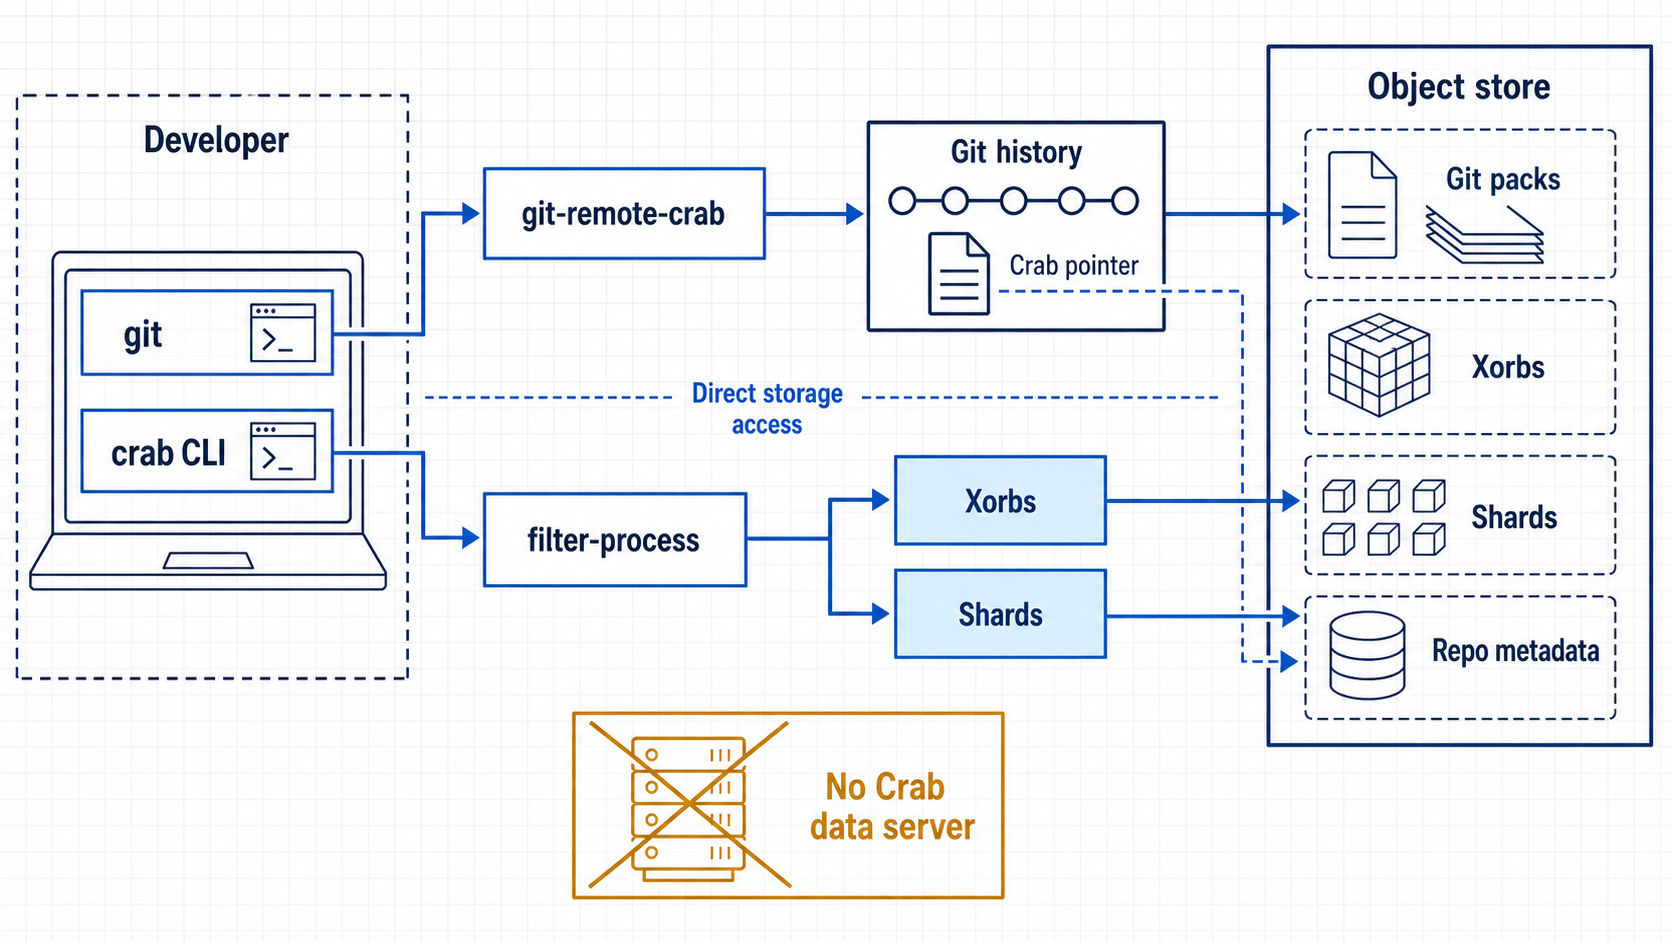
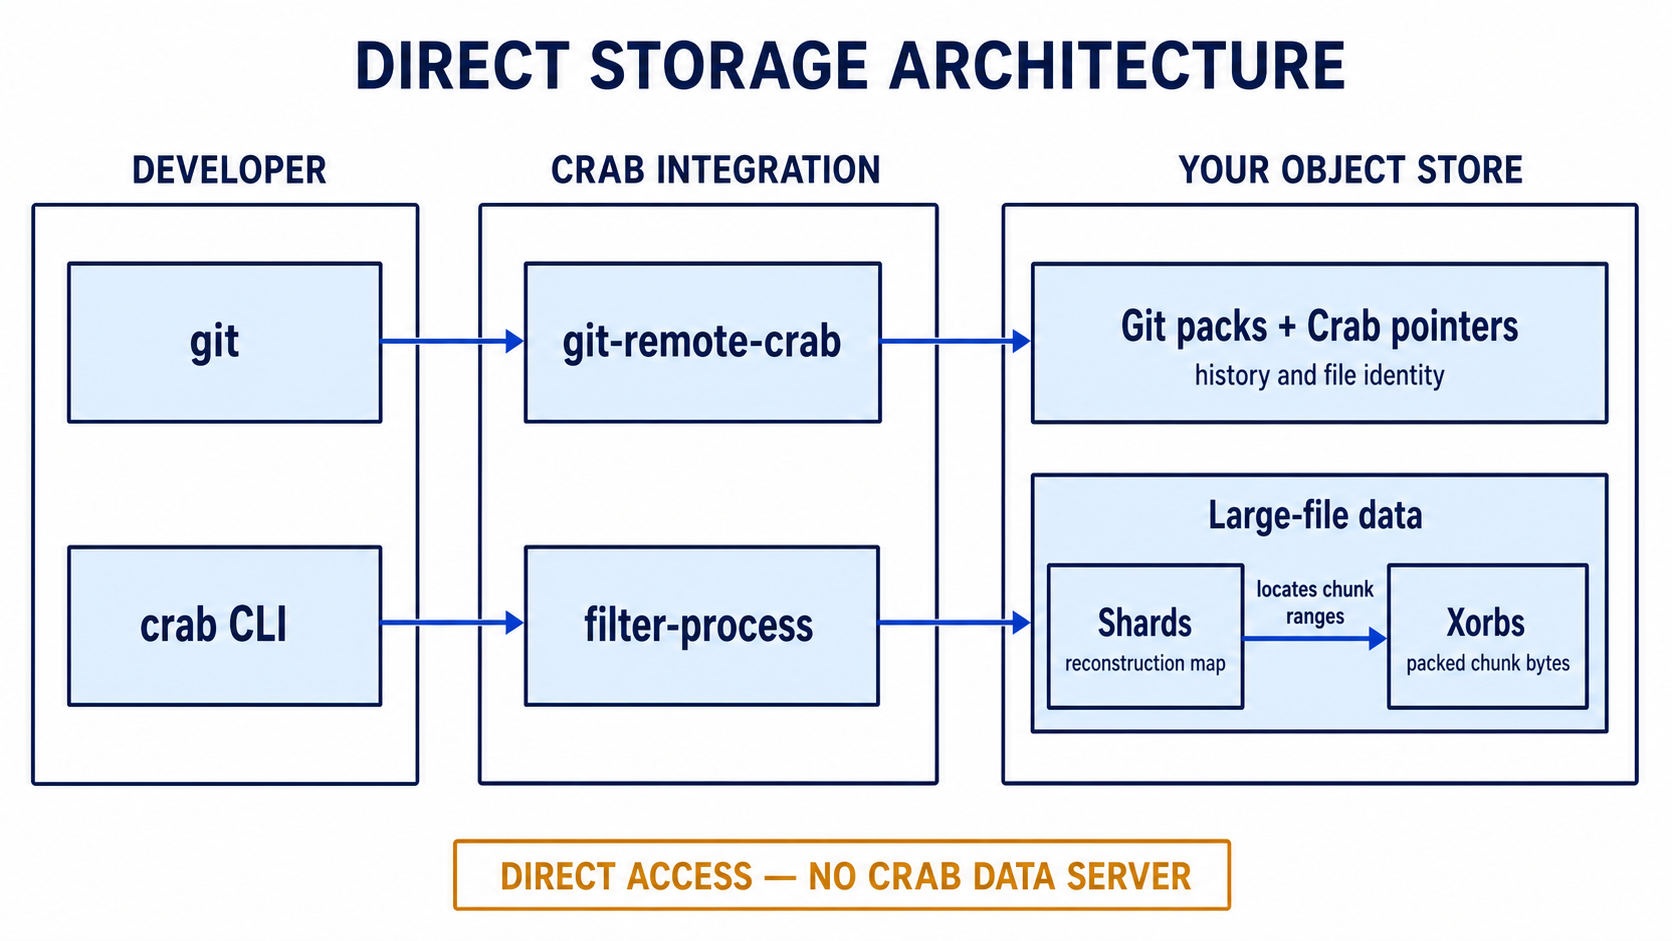
docs: connect shards to xorb ranges

diff --git a/launch/imgs/prompts/01-crab-direct-storage-architecture.md b/launch/imgs/prompts/01-crab-direct-storage-architecture.md
@@ -9,24 +9,58 @@ output: 01-crab-direct-storage-architecture.png
 
 # Crab Direct-Storage Architecture
 
-Layout: precise left-to-right systems architecture on a subtle engineering grid. Two parallel lanes leave the same developer workstation and converge conceptually at one Git commit.
+Use case: infographic-diagram.
 
-ZONES:
-- Left: developer workstation containing `git` and `crab CLI`.
-- Center top, Git lane: `git-remote-crab` leading to `Git history` and a small `Crab pointer` document.
-- Center bottom, data lane: `filter-process` leading to `Xorbs` and `Shards`.
-- Right: one large `Object store` boundary containing Git packs, xorbs, shards, and repo metadata.
-- Bottom callout: a crossed-out server rack icon with the exact label `No Crab data server`.
+Primary request: completely redraw the reference as a concise, technically precise direct-storage architecture. The relationship between Shards and Xorbs must be unmistakable. Remove every duplicate box, decorative icon, crossing connector, and unnecessary intermediate node from the reference.
+
+CORE TECHNICAL IDEA:
+- Git packs contain Git history and Crab pointer blobs.
+- Xorbs contain immutable packed chunk bytes.
+- Shards contain reconstruction metadata that locates ordered chunk ranges inside xorbs.
+- Both Git and large-file objects are written directly to the user's object store. There is no Crab data server in the middle.
+
+COMPOSITION:
+- One title: `DIRECT STORAGE ARCHITECTURE`.
+- Exactly three aligned columns: `DEVELOPER`, `CRAB INTEGRATION`, `YOUR OBJECT STORE`.
+- Exactly two horizontal lanes: a top Git lane and a bottom large-file lane.
+- All column headings share one baseline. All nodes have equal heights, square corners, identical stroke widths, and centers snapped to one grid.
+- All flow connectors are perfectly straight horizontal lines with centered arrowheads. No diagonal or crossing lines.
+
+COLUMN 1 — `DEVELOPER`:
+- Top node: `git`.
+- Bottom node: `crab CLI`.
+- Both nodes have identical dimensions and align vertically.
+
+COLUMN 2 — `CRAB INTEGRATION`:
+- Top node: `git-remote-crab`.
+- Bottom node: `filter-process`.
+- Both nodes have identical dimensions and align exactly with the corresponding Developer nodes.
+
+COLUMN 3 — `YOUR OBJECT STORE`:
+- One large clean boundary containing exactly two storage groups aligned with the lanes.
+- Top group: one box labeled `Git packs + Crab pointers` with a small secondary line `history and file identity`.
+- Bottom group: one box titled `Large-file data`. Inside it, place exactly two equal-width blocks on the same horizontal baseline:
+  - Left block: `Shards`, with a small secondary line `reconstruction map`.
+  - Right block: `Xorbs`, with a small secondary line `packed chunk bytes`.
+  - Connect the right edge of `Shards` directly to the left edge of `Xorbs` with one short, perfectly horizontal arrow.
+  - Place the exact label `locates chunk ranges` directly above that short arrow.
+  - The arrow MUST visibly touch both blocks. There must be no gap at either endpoint.
+- Do not draw separate or duplicated Shards or Xorbs anywhere else.
 
 FLOW:
-- `git` → `git-remote-crab` → `Git history` → `Object store`.
-- `crab CLI` → `filter-process` → `Xorbs` and `Shards` → `Object store`.
-- `Crab pointer` remains inside Git history and points toward the reconstruction metadata.
+- Top lane: `git` → `git-remote-crab` → `Git packs + Crab pointers`.
+- Bottom lane: `crab CLI` → `filter-process` → the outer `Large-file data` group.
+- Within the large-file group only: `Shards` → `Xorbs`, labeled `locates chunk ranges`.
+- Every external arrow must touch the exact center of its source and destination box edge.
 
-LABELS: Render only these labels, spelled exactly: `Developer`, `git`, `crab CLI`, `git-remote-crab`, `filter-process`, `Git history`, `Crab pointer`, `Xorbs`, `Shards`, `Object store`, `Direct storage access`, `No Crab data server`.
+FOOTER:
+- One compact centered amber-outlined badge: `DIRECT ACCESS — NO CRAB DATA SERVER`.
+- No server illustration and no crossed-out rack icon.
 
-COLORS: off-white background, pale gray grid, deep slate structure, engineering-blue primary flows, navy storage boundary, light-blue data blocks, amber only for the no-server callout. Color values are rendering guidance only; never display color names or hex values.
+LABELS: Render only these labels, spelled exactly: `DIRECT STORAGE ARCHITECTURE`, `DEVELOPER`, `CRAB INTEGRATION`, `YOUR OBJECT STORE`, `git`, `crab CLI`, `git-remote-crab`, `filter-process`, `Git packs + Crab pointers`, `history and file identity`, `Large-file data`, `Shards`, `reconstruction map`, `Xorbs`, `packed chunk bytes`, `locates chunk ranges`, `DIRECT ACCESS — NO CRAB DATA SERVER`.
 
-STYLE: professional dark-ink blueprint infographic; flat 2D; thin consistent strokes; square corners; straight or 90-degree connectors; generous whitespace; high technical precision; large readable English labels. No 3D, gradients, shadows, mascots, decorative clouds, people, logos, or extra text.
+COLORS: solid off-white background, deep navy outlines and text, engineering-blue arrows and storage fills, pale blue node fills, amber only for the footer badge. Never display color names or color codes.
+
+STYLE: flat 2D minimal blueprint infographic; no background grid; generous whitespace; high-contrast readable typography; precise engineering geometry. No 3D, gradients, shadows, perspective, people, clouds, logos, terminal icons, document icons, storage illustrations, server illustrations, decorative symbols, dotted lines, or extra text.
 
 ASPECT: 16:9 landscape, presentation-safe margins, all labels fully visible.

diff --git a/launch/crab-x-launch-series.md b/launch/crab-x-launch-series.md
@@ -38,9 +38,9 @@ Docs: https://crab.build/docs/cli
 
 **Image 1 — Launch hero**
 
-![Crab direct-storage architecture showing git, the Crab CLI, git-remote-crab, filter-process, Git history, pointers, xorbs, shards, and object storage with no Crab data server.](imgs/01-crab-direct-storage-architecture.png)
+![Crab direct-storage architecture with aligned Git and large-file lanes leading into the user's object store, where Shards connect directly to the Xorb ranges they locate.](imgs/01-crab-direct-storage-architecture.png)
 
-Alt text: Two coordinated technical lanes carry a compact Git graph and large immutable data blocks into cloud object storage, with no central server between them.
+Alt text: Two aligned lanes run from the developer through Crab's Git integration into the user's object store. The Git lane stores Git packs and Crab pointers. The large-file lane stores Shards beside Xorbs, joined by a direct arrow showing that reconstruction metadata locates chunk ranges in immutable packed data. A footer states that access is direct, with no Crab data server.
 
 **Image 2 — Open architecture**
 

diff --git a/launch/imgs/outline.md b/launch/imgs/outline.md
@@ -14,8 +14,8 @@
 
 1. `01-crab-direct-storage-architecture.png`
    - Position: after the opening definition of Crab.
-   - Purpose: show the complete direct-storage path and the absence of a Crab data server.
-   - Evidence represented: the CLI/filter/remote-helper entry points, Git-history lane, large-file lane, object storage, pointers, xorbs, and shards.
+   - Purpose: show two concise, aligned direct-storage lanes and the absence of a Crab data server.
+   - Evidence represented: Git packs and pointers share the Git lane; the large-file lane connects Shards directly to the Xorb ranges they locate inside the user's object store.
 2. `02-crab-open-source-module-map.png`
    - Position: after the open-source architecture overview.
    - Purpose: introduce the executable boundaries and the shared Rust crates that own each major responsibility.
